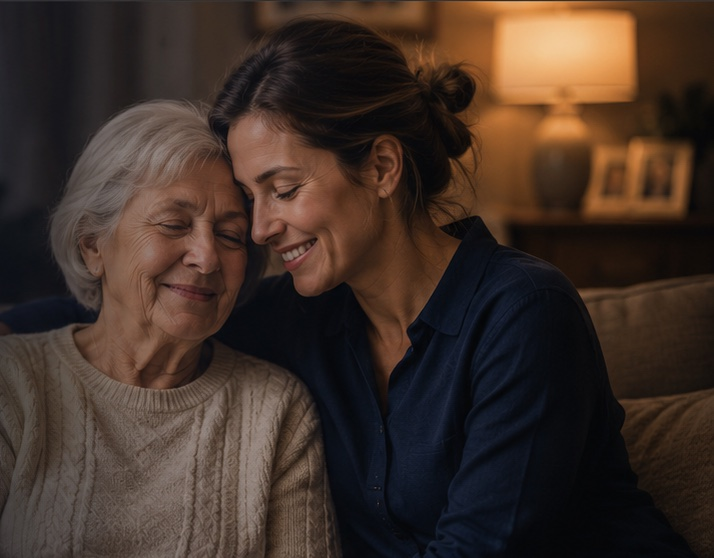
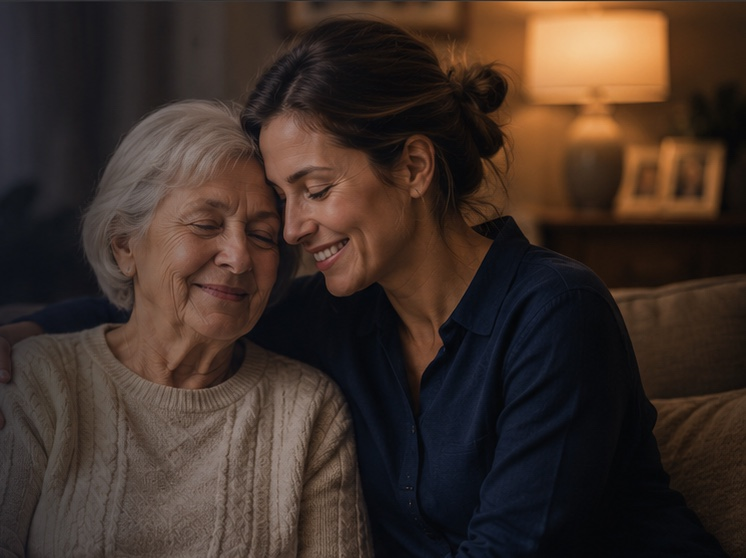
Hero: reveal hand-on-shoulder as a soft fade; match reference mockup
- Smooth multi-stop navy gradient over a right-anchored photo band (53%);
  thin left-edge feather mask hides the band seam with no hard line
- Lighten the hand/shoulder zone so the caregiver's hand reads as a soft
  detail that fades into the gradient (per the "There." reference); copy
  zone stays dark and readable
- Widen copy to match the reference: headline one-line orange, paragraph
  lands at the shoulder, clear gap to the older woman's head
- Re-crop images/hero-ai.jpg to include the hand + full shoulder
- Mobile: full-bleed photo + top-down gradient, mask reset to none

Limit: hand stays soft (low-res crop, hand at the very photo edge); a
clean full-frame original photo would render it more clearly.

diff --git a/css/style.css b/css/style.css
@@ -329,7 +329,7 @@ main { padding-top: var(--nav-h); }
   position: relative;
   display: flex;
   align-items: center;
-  min-height: 600px;
+  min-height: 660px;
   padding-block: 6rem 5rem;
   overflow: hidden;
   background-color: var(--navy);
@@ -339,28 +339,53 @@ main { padding-top: var(--nav-h); }
   z-index: 2;
   width: 100%;
 }
-/* Featured photo layer: a right-anchored band. The mask feathers the band's own
-   left edge, so the photo always dissolves seamlessly into the navy base — no
-   hard edge — regardless of viewport width. */
+/* Featured photo layer: a right-anchored band (~57%) so the people sit on the RIGHT
+   and the copy zone on the left stays navy. The band's hard left edge sits at ~43%,
+   INSIDE the gradient's still-opaque (~0.8) zone, so it's invisible — no seam/line.
+   The smooth gradient then feathers over the photo's left edge (matches the reference).
+   --hero-photo-w is the framing knob: smaller = people farther right. */
 .hero::before {
   content: '';
   position: absolute;
-  top: 0; right: 0; bottom: 0; left: auto;
-  width: 58%;
+  top: 0; bottom: 0; right: 0; left: auto;
+  width: var(--hero-photo-w, 53%);
   z-index: 0;
-  background: url('../images/hero-ai.jpg') no-repeat center right;
+  background-image: url('../images/hero-ai.jpg');
+  background-repeat: no-repeat;
+  /* bias to the left of the photo so the hand-on-shoulder is not clipped */
+  background-position: left center;
   background-size: cover;
-  -webkit-mask-image: linear-gradient(to right, transparent 0%, rgba(0,0,0,0.55) 30%, #000 56%);
-          mask-image: linear-gradient(to right, transparent 0%, rgba(0,0,0,0.55) 30%, #000 56%);
+  /* thin feather on the band's left edge: softens the seam line without reaching the
+     hand (which sits ~3-6% into the band) — the hand stays at full opacity */
+  -webkit-mask-image: linear-gradient(90deg, transparent 0%, #000 6%);
+          mask-image: linear-gradient(90deg, transparent 0%, #000 6%);
   pointer-events: none;
 }
-/* Desktop: no scrim needed — the left is solid navy. Used only on mobile. */
+/* Strong left→right navy overlay that protects the copy zone:
+   0–42% very dark (~0.95+), 42–58% feathered transition, 58–100% light cinematic.
+   The opaque left also conceals the photo band's edge. Opacities = readability knob. */
 .hero::after {
   content: '';
   position: absolute;
   inset: 0;
   z-index: 1;
-  background: none;
+  background:
+    linear-gradient(100deg,
+      rgba(27,34,48,0.97) 0%,
+      rgba(27,34,48,0.94) 30%,
+      rgba(27,34,48,0.84) 40%,
+      rgba(27,34,48,0.42) 47%,
+      rgba(27,34,48,0.26) 53%,
+      rgba(27,34,48,0.15) 62%,
+      rgba(27,34,48,0.07) 75%,
+      rgba(27,34,48,0.03) 88%,
+      rgba(27,34,48,0.00) 100%),
+    /* gentle vertical vignette keeps top/bottom from washing out */
+    linear-gradient(180deg,
+      rgba(27,34,48,0.16) 0%,
+      rgba(27,34,48,0.00) 24%,
+      rgba(27,34,48,0.00) 78%,
+      rgba(27,34,48,0.18) 100%);
   pointer-events: none;
 }
 .hero__eyebrow {
@@ -369,7 +394,7 @@ main { padding-top: var(--nav-h); }
 .hero__headline {
   color: var(--warm-white);
   margin-bottom: 1.5rem;
-  max-width: 680px;
+  max-width: 565px;
 }
 .hero__headline em {
   color: var(--coral);
@@ -377,9 +402,9 @@ main { padding-top: var(--nav-h); }
 }
 .hero__sub {
   font-size: 1.05rem;
-  color: rgba(255,255,255,0.58);
-  max-width: 560px;
-  line-height: 1.75;
+  color: rgba(255,255,255,0.68);
+  max-width: 480px;
+  line-height: 1.7;
   margin-bottom: 2.5rem;
 }
 .hero__actions {
@@ -1208,19 +1233,22 @@ main { padding-top: var(--nav-h); }
   .section { padding-block: 3.5rem; }
   .section--lg { padding-block: 4.5rem; }
   .hero { padding-block: 4rem 3rem; min-height: 520px; }
-  /* Mobile: photo goes full-bleed again (reset the desktop right-band) */
+  /* Mobile: photo goes full-bleed (reset the desktop right-band) and is biased
+     right so the people stay visible under the stronger top-down overlay. */
   .hero::before {
     left: 0; right: 0; width: 100%;
-    background-size: cover;
-    background-position: center 24%;
+    background-position: 60% 28%;
     -webkit-mask-image: none;
             mask-image: none;
   }
-  /* Mobile scrim goes vertical (top-dark) so the copy never sits on busy detail */
+  /* Mobile: readability first — stronger top-down navy so copy never sits on
+     busy facial detail; photo reads warm toward the bottom. */
   .hero::after {
     background: linear-gradient(180deg,
-      var(--navy) 0%, var(--navy) 48%,
-      rgba(27,34,48,0.6) 80%, rgba(27,34,48,0.35) 100%);
+      rgba(27,34,48,0.92) 0%,
+      rgba(27,34,48,0.82) 40%,
+      rgba(27,34,48,0.60) 68%,
+      rgba(27,34,48,0.48) 100%);
   }
 
   .service-item {

diff --git a/COMMIT_NOTES.md b/COMMIT_NOTES.md
@@ -26,6 +26,110 @@ Promote featured-photo hero to production homepage + 3-variant preview
 - Validation: server -> / 200, css/style.css 200, images/hero-ai.jpg 200; other pages do not reuse
   base .hero (no regression)
 
+## Iteration: reveal the hand-on-shoulder (soft fade) — to commit (CURRENT)
+
+- Goal: caregiver's hand on the older woman's shoulder + that shoulder read as a SOFT detail that fades
+  into the gradient (user: "clearly visible, just not as visible as the people's faces"), matching the
+  "There." reference mockup (images/ChatGPT Image Jun 27, 2026 at 06_39_46 AM.png).
+- Root cause confirmed: the hand sits at the photo's FAR-LEFT edge (source x~0-45, y~360-450), which is
+  exactly the right-anchored band's left edge — the same strip that must stay dark/feathered to hide the
+  seam. No clean photo data exists left of the hand (the file was cropped from the text-baked mockup), so
+  the hand is welded to the band edge and can only ever be a soft fade from this source.
+- Changes (css/style.css, hero):
+  - .hero::before: thin left-edge feather mask (linear-gradient 90deg, transparent 0, #000 6%) — softens
+    the band edge (no hard line) without reaching the hand body. Band width 53%, position left center.
+  - .hero::after: lightened the hand/shoulder zone while keeping the copy zone dark and the slope smooth:
+    0.97@0, 0.94@30, 0.84@40, 0.42@47, 0.26@53, 0.15@62, 0.07@75, 0.02@88, 0@100 (+ vertical vignette).
+  - Copy unchanged from the approved reference-match (headline 565 one-line orange, sub 480).
+- Verified desktop(1554) + mobile(390) + upscaled zoom of the hand zone: hand reads as a soft fade,
+  shoulder visible, gradient smooth, NO seam/line; framing matches the target.
+- Limit: the hand stays soft because the source is a low-res, dim crop with the hand at the very edge; a
+  clean full-frame original photo would let it read more clearly (no code change for the swap).
+
+## Iteration: match the user's reference mockup exactly (committing together)
+
+- User supplied the exact target screenshot. Rebuilt the hero to match it precisely:
+  - .hero::before: right-anchored band restored, width var(--hero-photo-w, 53%), background-position
+    left center; added a left-edge feather (mask-image linear-gradient(90deg, transparent 0, #000 11%))
+    so the band dissolves into navy with NO vertical seam/line (the "line" the user flagged)
+  - .hero::after: smooth multi-stop gradient — 0.97@0, 0.94@30, 0.84@41, 0.60@50, 0.36@60, 0.18@72,
+    0.05@87, 0.00@100 (+ softened vertical vignette). Band edge (~47%) hides under the feather+gradient
+  - Copy widened to match the reference: .hero__headline max-width 430 -> 565 (orange "We make that
+    possible." now ONE line); .hero__sub max-width 350 -> 480 (4-line paragraph), color 0.58 -> 0.68,
+    line-height 1.75 -> 1.7
+  - Result vs reference: women on the right, older woman's FACE fully clear of the copy, smooth gradient
+    with no line, lamp+caregiver bright on the right, hand-on-shoulder in the blend zone
+  - Mobile (max-width 640): .hero::before mask reset to none (keeps full-bleed mobile photo unfaded)
+  - Verified desktop(1554) + mobile(390) headless screenshots against the reference
+- Image still the soft 746x558 placeholder crop; client's hi-res original would sharpen it (no code change)
+
+## Iteration: restored smooth gradient (superseded by the reference-match above)
+
+- Prior step wrongly steepened .hero::after to expose the hand, flattening the premium gradient
+  (against the user's explicit instruction). Restored a smooth, gradual multi-stop gradient:
+  0.96@0, 0.93@28, 0.84@40, 0.66@50, 0.46@60, 0.30@74, 0.18@100 (+ vertical vignette)
+- Hand/shoulder kept visible via FRAMING not gradient hacks: --hero-photo-w 53% -> 50% (pushes the
+  hand into the gradient's lighter zone); background-position left center
+- Re-cropped image (offset 808) retained; copy unchanged (headline 430 / sub 350)
+- Verified desktop(1440)+mobile(390): smooth premium gradient + shoulder visible, hand softly present
+
+## Iteration: ROOT-CAUSE fix — re-crop image to include hand+shoulder (image fix retained)
+
+- Root cause of repeated failures: images/hero-ai.jpg had been cropped from the composite at x=840,
+  which sliced OFF the caregiver's hand (x~830) and older woman's outer shoulder (x~815). No CSS could
+  reveal detail absent from the file.
+- Re-cropped images/hero-ai.jpg from the composite at offset x=808 (746x558) — hand + full shoulder now
+  present; cropped just right of the baked-in text so none intrudes.
+- CSS retune so hand/shoulder sit right of the copy and read clearly:
+  - --hero-photo-w 60% -> 53%; background-position left center (keeps the far-left hand; trims the
+    far-right lamp — acceptable per priority)
+  - .hero::after gradient lightened across the hand zone: 0.95@0, 0.94@37, 0.54@45, 0.26@53, 0.20@74,
+    0.16@100 (+ vignette) so the hand/shoulder (~46-52%) are visible, not muddy
+  - copy stays narrow: .hero__headline max-width 430, .hero__sub 350 (ends ~37%, ~10% gap to people)
+- Verified desktop(1440)+mobile(390) screenshots: hand/shoulder in frame & right of copy; left zone clean
+- Caveat: the hand is in a naturally dim/shadowed part of this AI crop; a full-res original at
+  images/hero-ai.jpg would render it more clearly
+- Knobs: crop offset, --hero-photo-w, background-position, .hero::after stops, copy max-widths
+
+## Iteration: copy clears the hand-on-shoulder boundary (superseded — image lacked the hand)
+
+- Problem: hand/shoulder contact sits in the LEFT of the photo crop, so the copy still overlapped it
+- Fix = pull copy in + keep photo wide enough to render hand/shoulder uncropped (don't shrink band):
+  - .hero__headline max-width 680 -> 470 (orange line now wraps to two lines, stays in left zone)
+  - .hero__sub max-width 560 -> 430
+  - .hero::before width var 54% -> 60% (width-bound => no left-crop) ; background-position right -> left
+    (keep the far-left hand/shoulder visible; trims ~3-4% of the far-right lamp)
+  - .hero::after re-aligned: 0.97@0, 0.95@40, 0.74@48, 0.42@58, 0.28@76, 0.20@100 (+ vignette)
+- Result: copy fully in left dark zone; older woman shoulder + caregiver on the right, warm; lamp still
+  visible; verified desktop(1440)+mobile(390) headless screenshots
+- Knobs: .hero__headline/.hero__sub max-width, --hero-photo-w, .hero::before position, .hero::after stops
+
+## Iteration: protected copy zone, people on the right (superseded by the above)
+
+- Reversed the over-wide band: people back on the right, left ~48% is a protected text-safe zone
+- .hero::before width var(--hero-photo-w) 84% -> 54%; background-position center -> right center
+- .hero::after: strong left->right protect gradient — 0.97@0, 0.95@44%, 0.72@52%, 0.42@60%,
+  0.30@76%, 0.22@100% (+ vertical vignette). Opaque left (0-44%) also hides the band edge
+- Older adult sits center-right (face clears the orange line), caregiver far right, lamp far right
+- Mobile: .hero::before reset to full-bleed (left/right/width 100%, background-position 60% 28%) so
+  the people stay present under the stronger top-down overlay; readability prioritized
+- Verified desktop (1440) + mobile (390) via headless-chromium screenshots
+- Tuning knobs: --hero-photo-w (framing), .hero::after stops (readability), .hero min-height (660px)
+
+## Iteration: integrated photo + multi-stop gradient (superseded by the above)
+
+- Goal: hero reads as one composition (not a dark text panel beside a photo); older adult nearer
+  centre & partially in the blend, caregiver clear on the right, warm lamp far right
+- .hero::before: widened photo band 58% -> var(--hero-photo-w, 84%) (bleeds into centre); removed the
+  mask (its hard left edge is now hidden under the opaque-left gradient zone -> still seamless)
+- .hero::after: replaced empty desktop scrim with a 6-stop navy gradient
+  (~0.95 left -> 0.62 @38% -> 0.30 @56% -> 0 @100%) + a subtle vertical vignette
+- .hero min-height 600 -> 660 (more vertical presence)
+- Mobile: photo full-band + stronger top-down navy overlay (readability first), faces clear of headline
+- Verified via headless-chromium screenshots at 1440 and 390 widths (desktop + mobile)
+- Tuning knobs: --hero-photo-w (framing), .hero::after opacity stops (readability), .hero min-height
+- NOTE: not yet committed
+
 ## Iteration: seamless photo->navy blend (whole-photo zoom kept)
 
 - Fixed visible seam from background-size:contain (hard right-anchored edge that shifted with viewport

diff --git a/PROGRESS_NOTE.md b/PROGRESS_NOTE.md
@@ -25,7 +25,9 @@ Phase 2 — Implementation (approved): hero background 3-variant preview
 Current slice:
 
 ```text
-Hero featured photo: seamless photo->navy blend (right-anchored band + aligned feather), css only
+Hero featured photo: matches the "There." reference — band 53% + thin feathered edge (no seam/line),
+smooth multi-stop gradient, copy widened (orange one line, face clear), hand-on-shoulder revealed as a
+soft fade. Committing (user authorized). Limit: hand stays soft until a clean full-frame original photo.
 ```
 
 Completed: